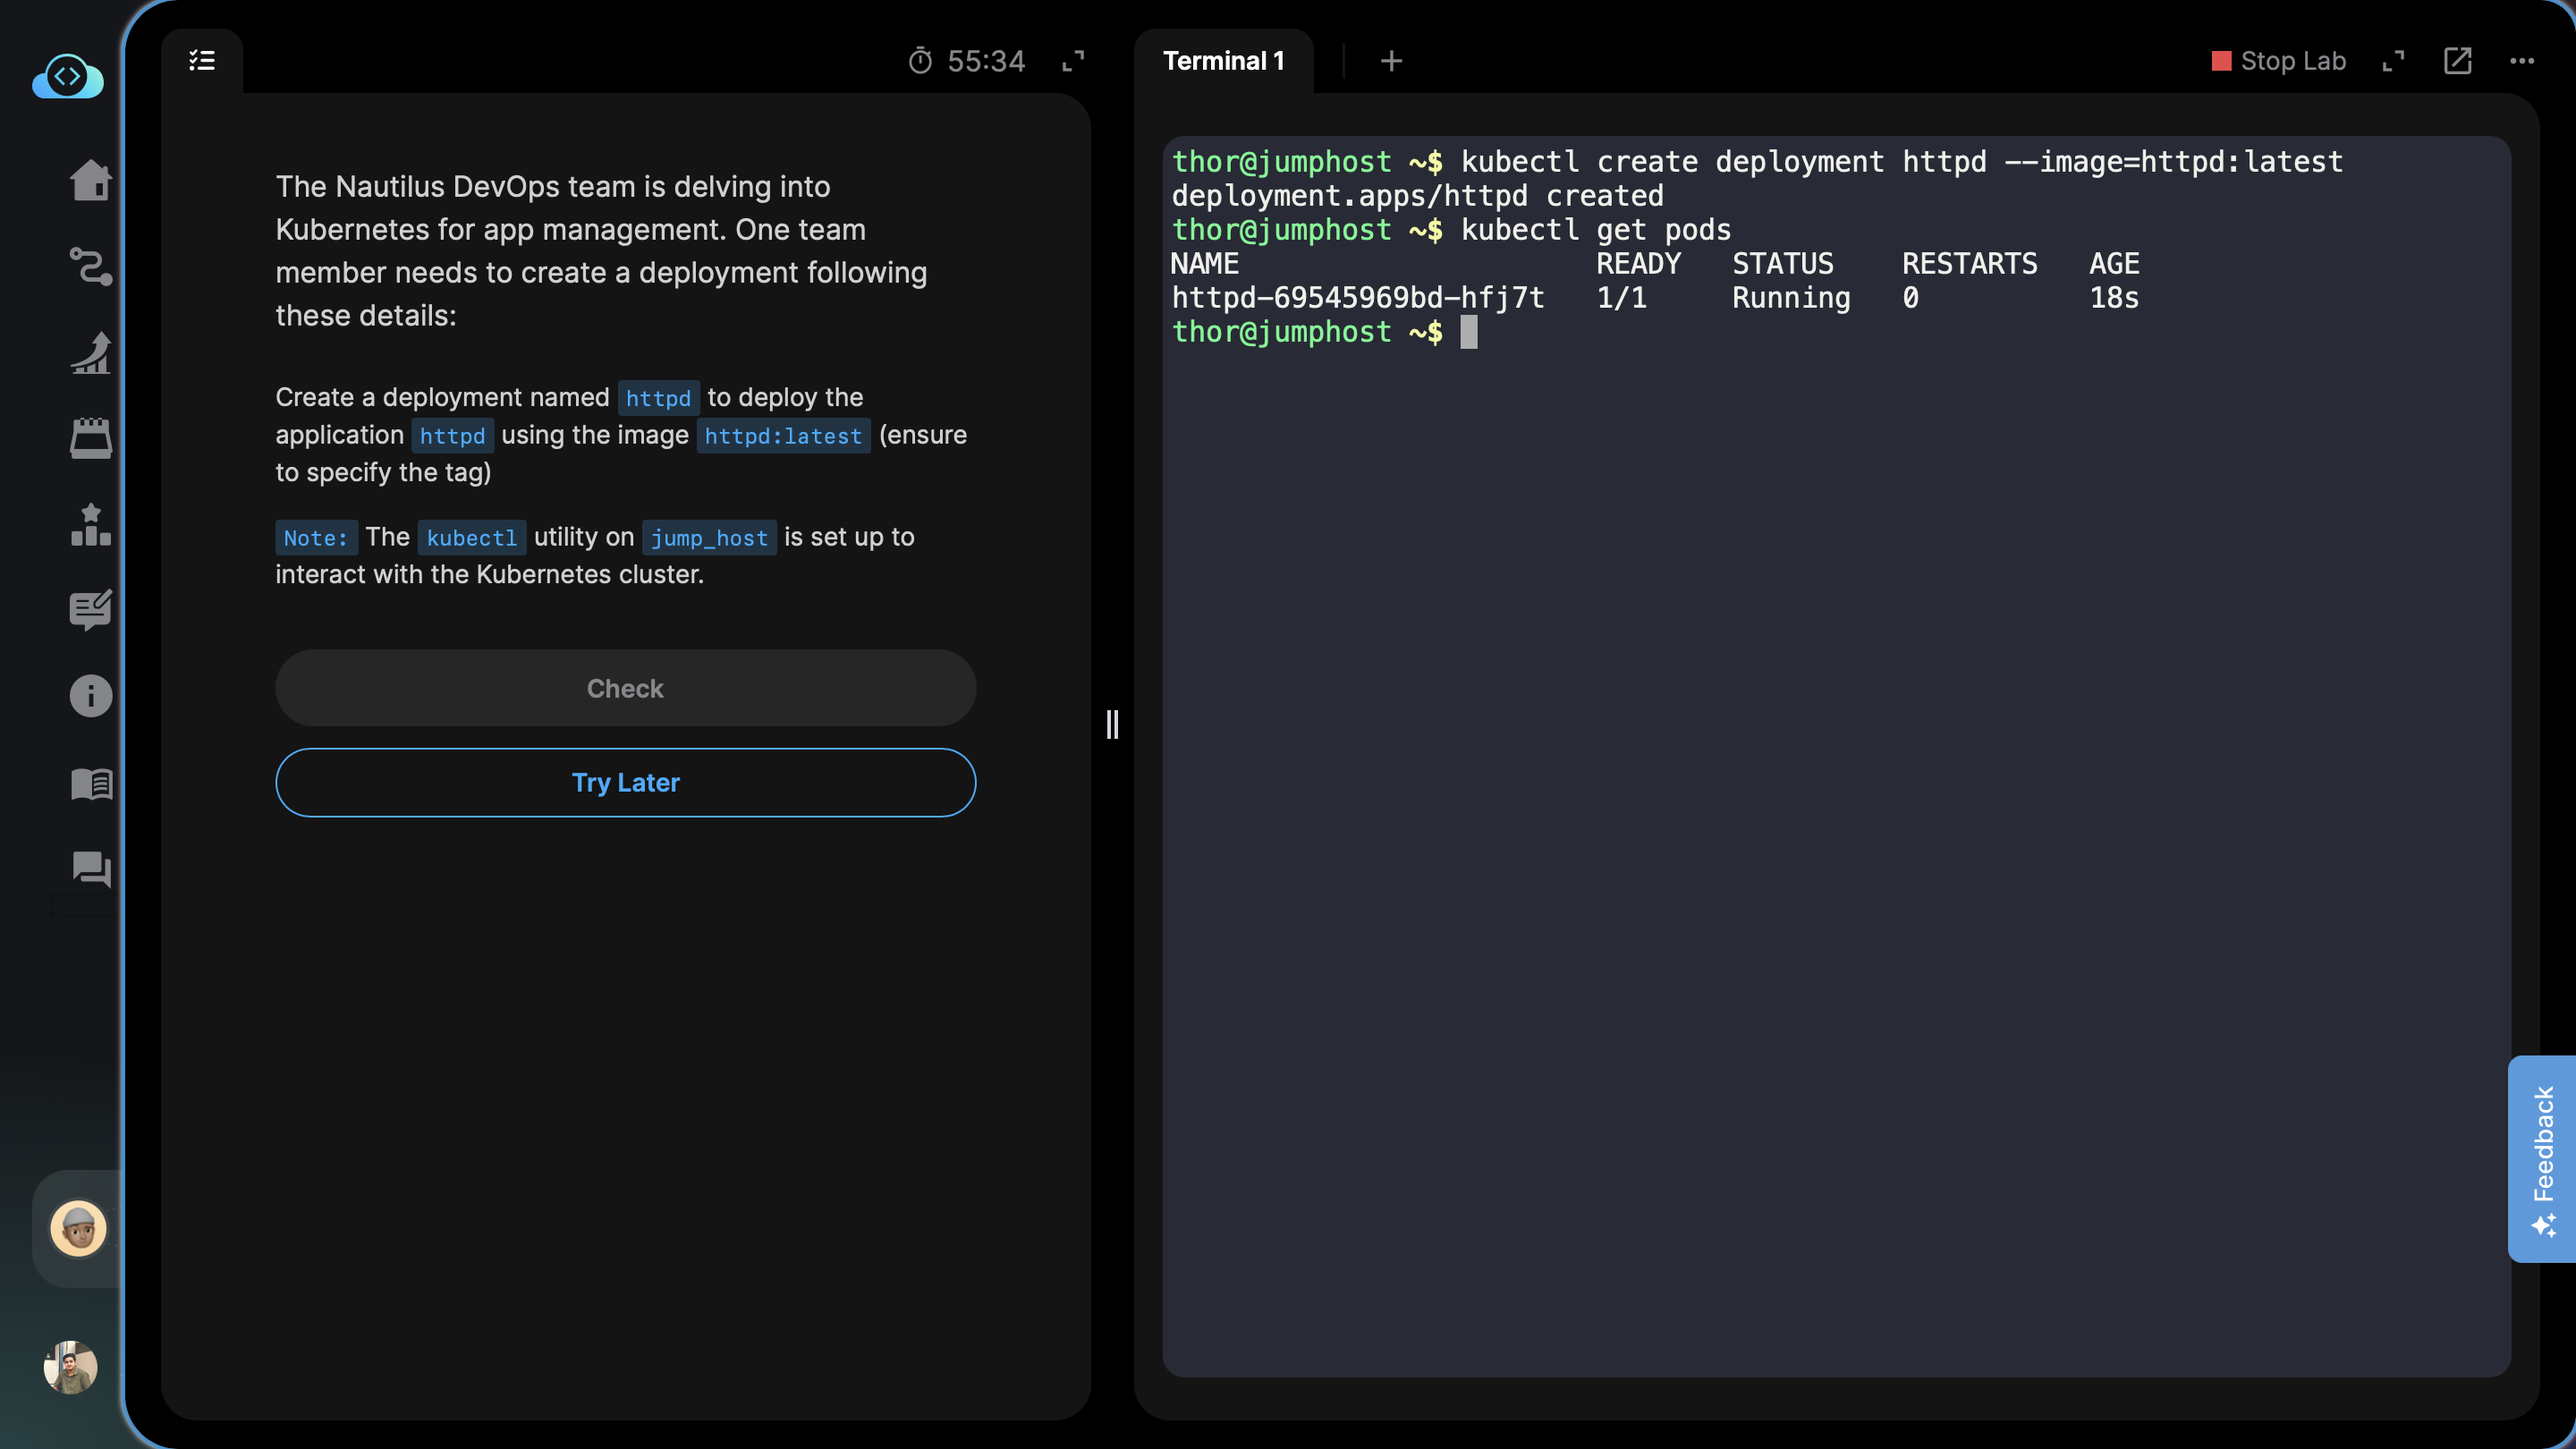
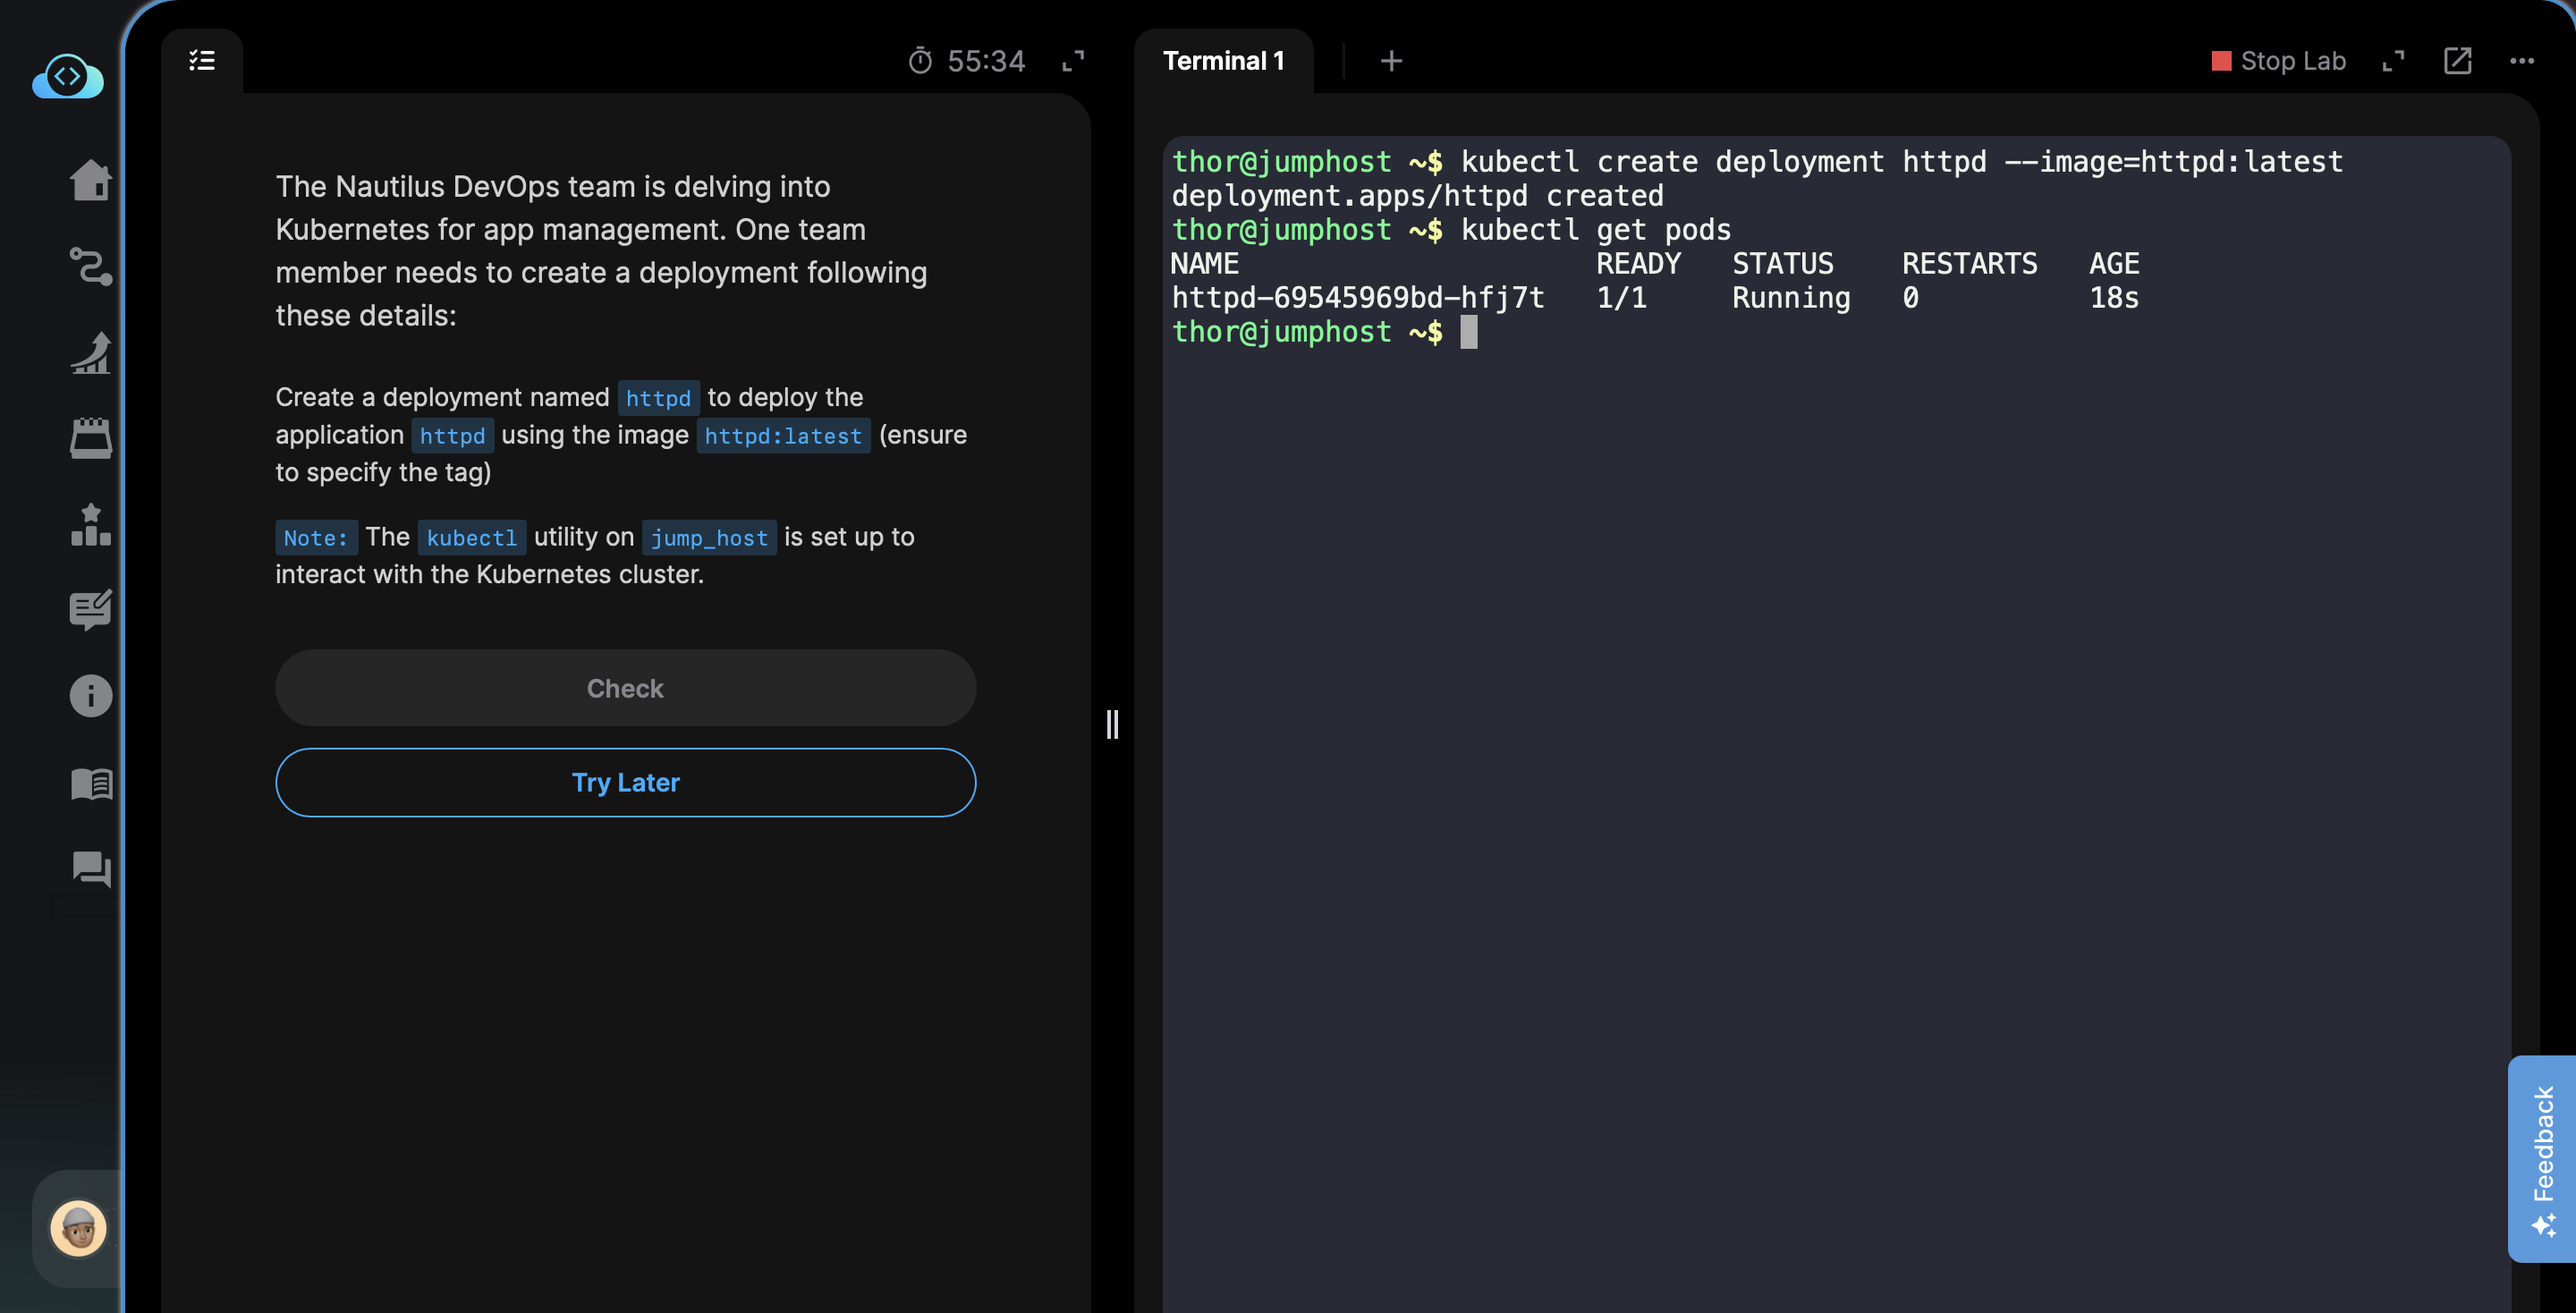
Task 6 : App Deployment

diff --git a/Deploy-Grafana/K8S-Deploy-Grafana.md b/Deploy-Grafana/K8S-Deploy-Grafana.md
@@ -1,0 +1,61 @@
+The Nautilus DevOps teams is planning to set up a Grafana tool to collect and analyze analytics from some applications. They are planning to deploy it on Kubernetes cluster. Below you can find more details.
+
+1. Create a deployment named grafana-deployment-nautilus using any grafana image for Grafana app. Set other parameters as per your choice.
+
+2. Create NodePort type service with nodePort 32000 to expose the app.
+
+Solution :
+
+1. Check namespaces and pods running
+
+```
+kubectl get namespaces
+kubectl get pods
+```
+
+2. Create Grafana deployment yaml file
+
+```
+vi grafana-deployment.yaml
+
+apiVersion: apps/v1
+kind: Deployment
+metadata:
+  name: grafana-deployment-nautilus
+spec:
+  replicas: 1
+  selector:
+    matchLabels:
+      app: grafana
+  template:
+    metadata:
+      name: grafana
+      labels:
+        app: grafana
+    spec:
+      containers:
+      - name: grafana
+        image: grafana/grafana:latest
+        ports:
+        - name: grafana
+          containerPort: 3000
+---
+apiVersion: v1
+kind: Service
+metadata:
+  name: grafana
+spec:
+  selector:
+    app: grafana
+  type: NodePort
+  ports:
+    - port: 3000
+      targetPort: 3000
+      nodePort: 32000
+```
+
+3. Check pod is created and running
+
+```
+kubectl get pods
+```
